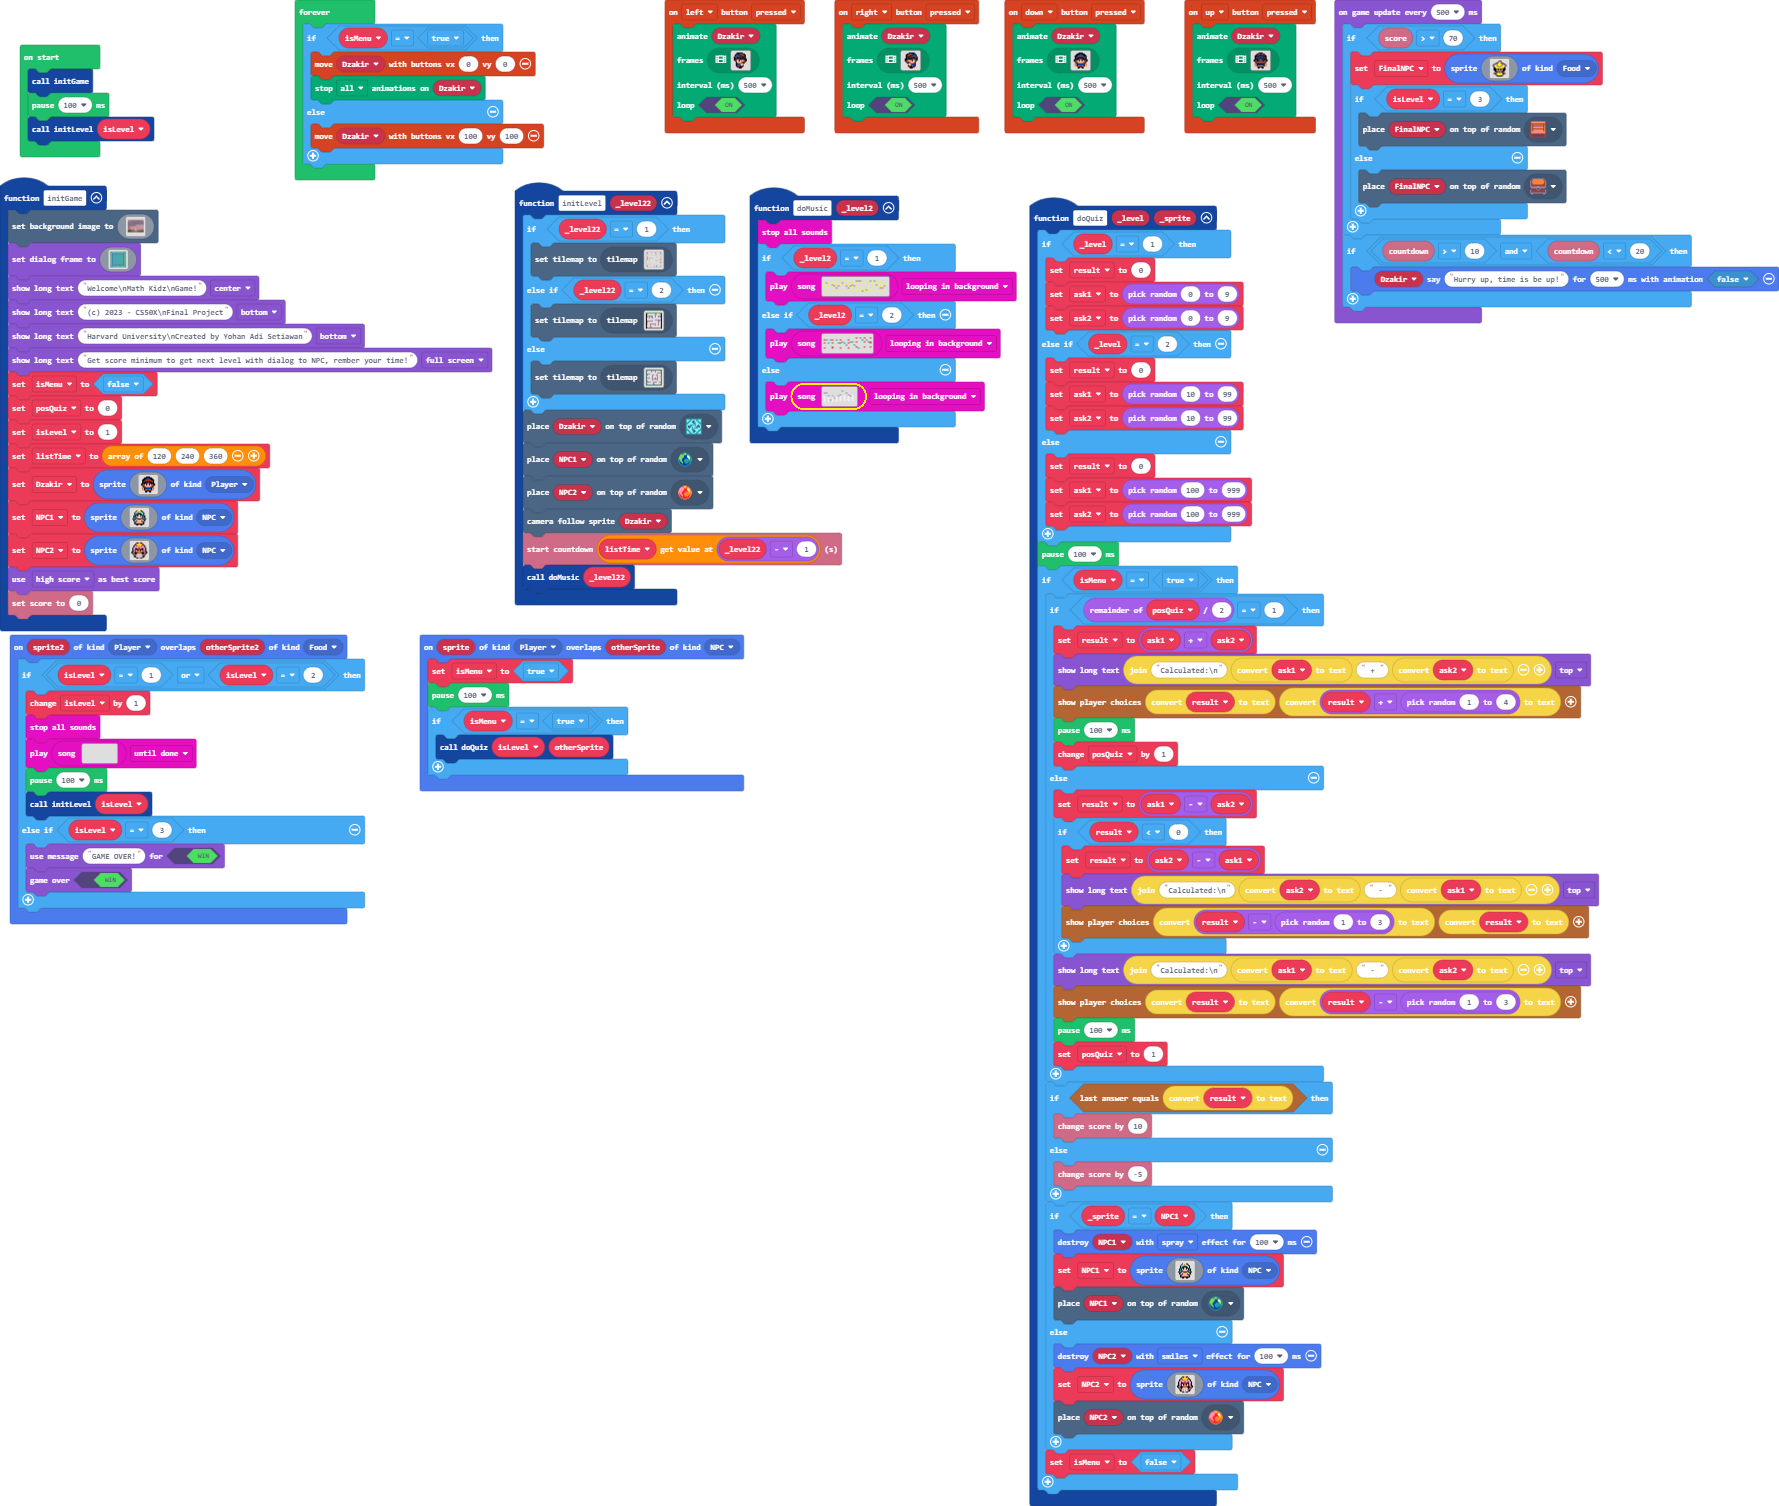
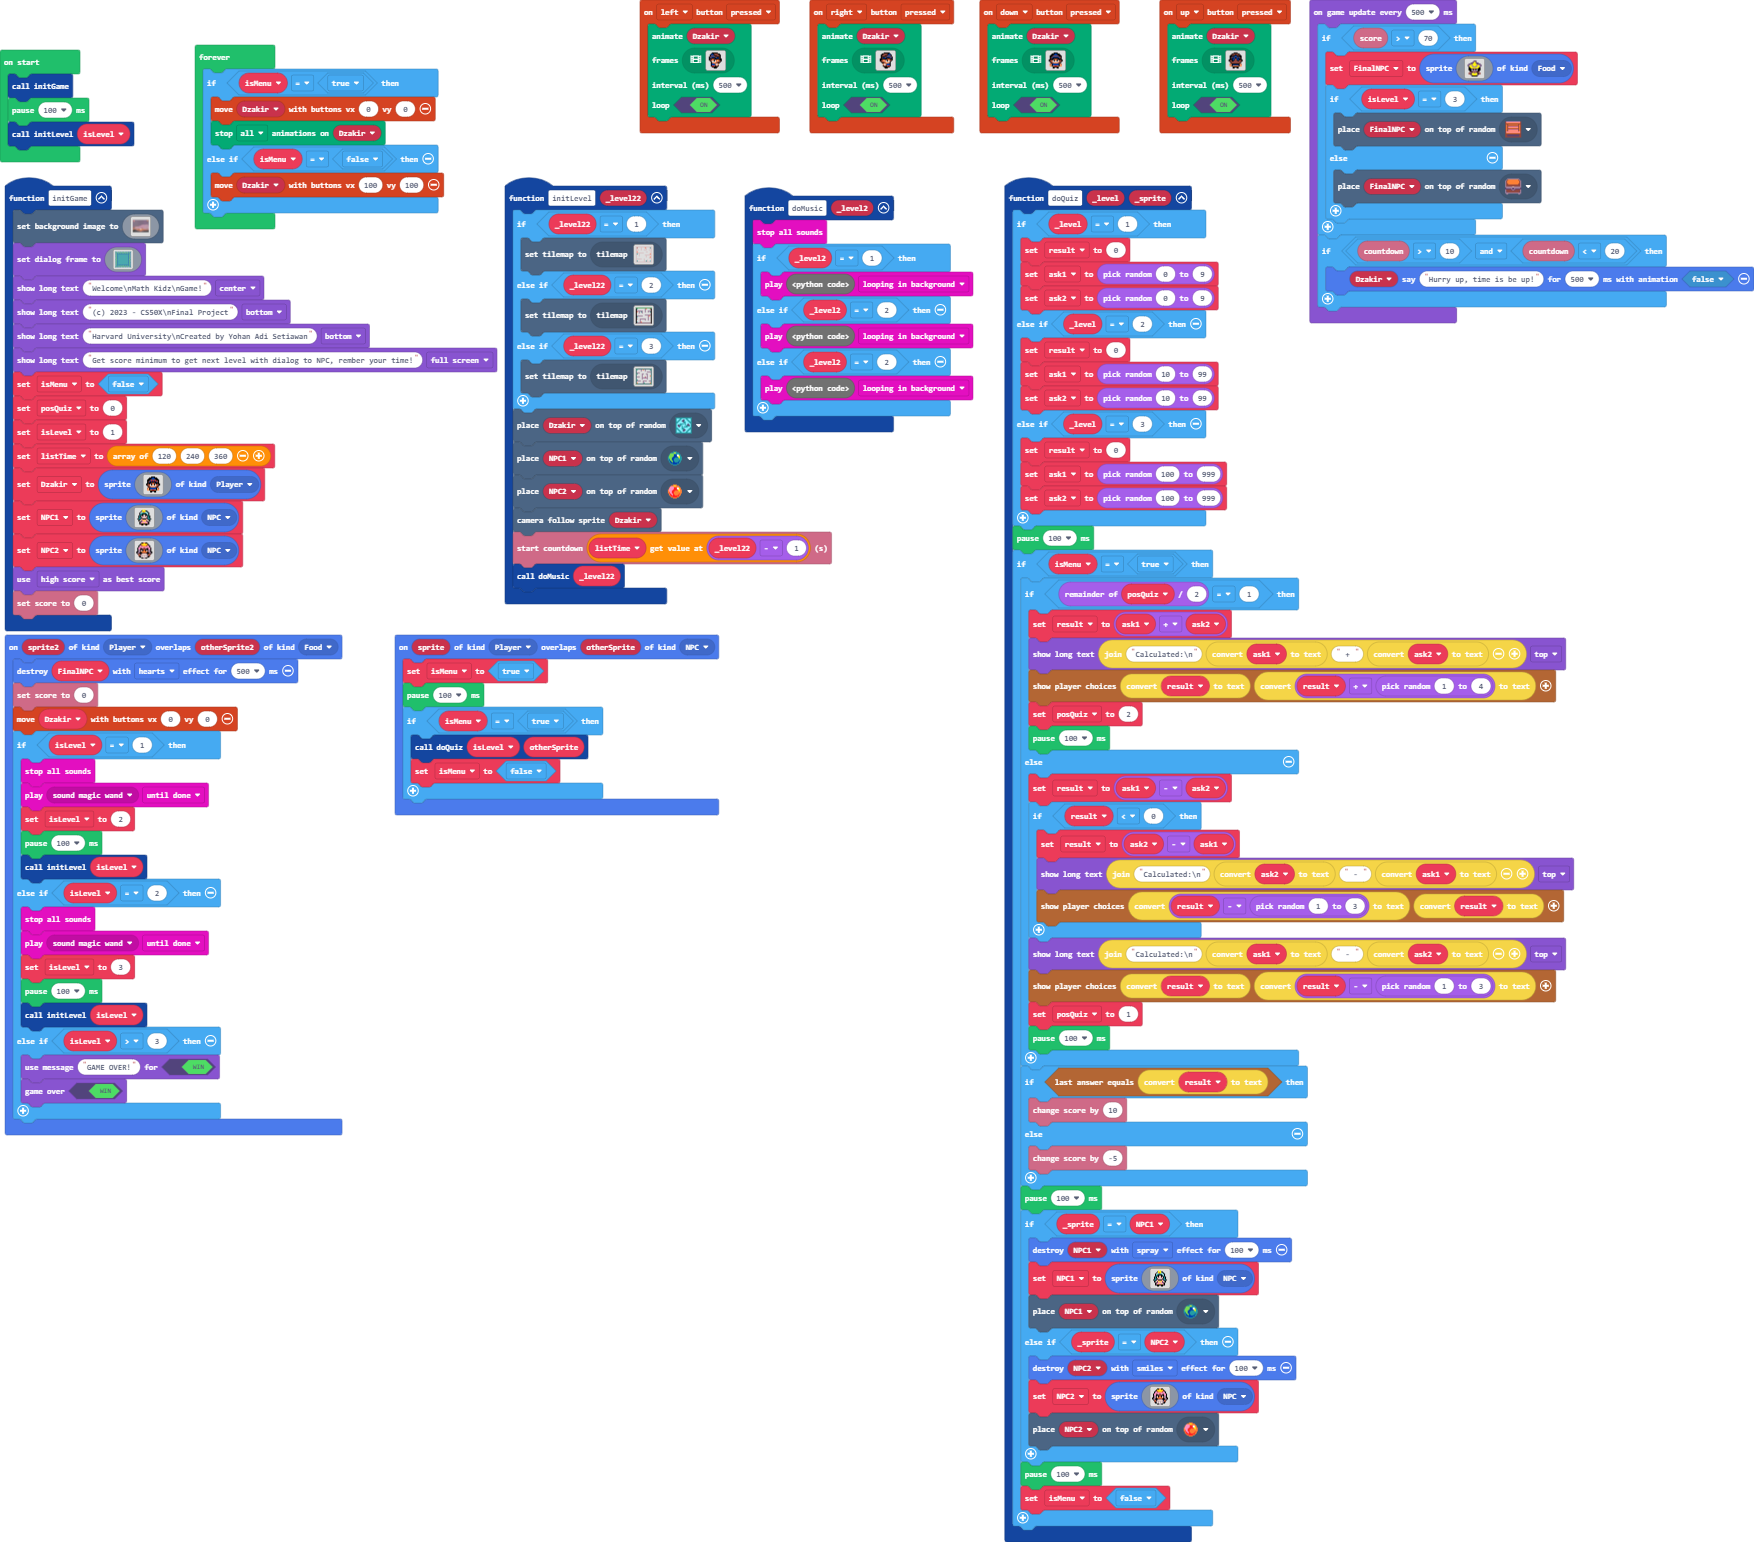
Update main.blocks, main.ts, main.py, images.g.jres, images.g.ts

diff --git a/images.g.ts b/images.g.ts
@@ -353,11 +353,11 @@ f b b f f f e e e e f f f b b f
     helpers._registerFactory("song", function(name: string) {
         switch(helpers.stringTrim(name)) {
             case "song1":
[2 lines of base64/hex data omitted]
             case "song2":
[1 lines of base64/hex data omitted]
             case "song3":
[2 lines of base64/hex data omitted]
         }
         return null;
     })

diff --git a/main.ts b/main.ts
@@ -13,6 +13,7 @@ sprites.onOverlap(SpriteKind.Player, SpriteKind.NPC, function on_on_overlap(spri
     pause(100)
     if (isMenu == true) {
         doQuiz(isLevel, otherSprite)
+        isMenu = false
     }
     
 })
@@ -31,7 +32,7 @@ function doQuiz(_level: number, _sprite: Sprite) {
         result = 0
         ask1 = randint(10, 99)
         ask2 = randint(10, 99)
-    } else {
+    } else if (_level == 3) {
         result = 0
         ask1 = randint(100, 999)
         ask2 = randint(100, 999)
@@ -43,8 +44,8 @@ function doQuiz(_level: number, _sprite: Sprite) {
             result = ask1 + ask2
             game.showLongText("Calculated:\\n" + convertToText(ask1) + " + " + convertToText(ask2), DialogLayout.Top)
             story.showPlayerChoices(convertToText(result), convertToText(result + randint(1, 4)))
+            posQuiz = 2
             pause(100)
-            posQuiz += 1
         } else {
             result = ask1 - ask2
             if (result < 0) {
@@ -55,8 +56,8 @@ function doQuiz(_level: number, _sprite: Sprite) {
             
             game.showLongText("Calculated:\\n" + convertToText(ask1) + " - " + convertToText(ask2), DialogLayout.Top)
             story.showPlayerChoices(convertToText(result), convertToText(result - randint(1, 3)))
-            pause(100)
             posQuiz = 1
+            pause(100)
         }
         
         if (story.checkLastAnswer(convertToText(result))) {
@@ -65,13 +66,14 @@ function doQuiz(_level: number, _sprite: Sprite) {
             info.changeScoreBy(-5)
         }
         
+        pause(100)
         if (_sprite == NPC1) {
             sprites.destroy(NPC1, effects.spray, 100)
             NPC1 = sprites.create(assets.image`
                 NovitaNPC
             `, SpriteKind.NPC)
             tiles.placeOnRandomTile(NPC1, sprites.dungeon.collectibleBlueCrystal)
-        } else {
+        } else if (_sprite == NPC2) {
             sprites.destroy(NPC2, effects.smiles, 100)
             NPC2 = sprites.create(assets.image`
                 EndangNPC
@@ -79,6 +81,7 @@ function doQuiz(_level: number, _sprite: Sprite) {
             tiles.placeOnRandomTile(NPC2, sprites.dungeon.collectibleRedCrystal)
         }
         
+        pause(100)
         isMenu = false
     }
     
@@ -313,7 +316,7 @@ function doMusic(_level2: number) {
         music.play(music.createSong(assets.song`
                 Kebunku
             `), music.PlaybackMode.LoopingInBackground)
-    } else {
+    } else if (_level2 == 2) {
         music.play(music.createSong(assets.song`
                 Kebunku0
             `), music.PlaybackMode.LoopingInBackground)
@@ -328,15 +331,22 @@ controller.down.onEvent(ControllerButtonEvent.Pressed, function on_down_pressed(
 })
 sprites.onOverlap(SpriteKind.Player, SpriteKind.Food, function on_on_overlap2(sprite2: Sprite, otherSprite2: Sprite) {
     
-    if (isLevel == 1 || isLevel == 2) {
-        isLevel += 1
+    sprites.destroy(FinalNPC, effects.hearts, 500)
+    info.setScore(0)
+    controller.moveSprite(Dzakir, 0, 0)
+    if (isLevel == 1) {
         music.stopAllSounds()
-        music.play(music.createSong(hex`
-                00780004080200
-            `), music.PlaybackMode.UntilDone)
+        music.play(music.melodyPlayable(music.magicWand), music.PlaybackMode.UntilDone)
+        isLevel = 2
         pause(100)
         initLevel(isLevel)
-    } else if (isLevel == 3) {
+    } else if (isLevel == 2) {
+        music.stopAllSounds()
+        music.play(music.melodyPlayable(music.magicWand), music.PlaybackMode.UntilDone)
+        isLevel = 3
+        pause(100)
+        initLevel(isLevel)
+    } else if (isLevel > 3) {
         game.setGameOverMessage(true, "GAME OVER!")
         game.gameOver(true)
     }
@@ -351,7 +361,7 @@ function initLevel(_level22: number) {
         tiles.setCurrentTilemap(tilemap`
             level2
         `)
-    } else {
+    } else if (_level22 == 3) {
         tiles.setCurrentTilemap(tilemap`
             level3
         `)
@@ -383,7 +393,7 @@ forever(function on_forever() {
     if (isMenu == true) {
         controller.moveSprite(Dzakir, 0, 0)
         animation.stopAnimation(animation.AnimationTypes.All, Dzakir)
-    } else {
+    } else if (isMenu == false) {
         controller.moveSprite(Dzakir, 100, 100)
     }
     

diff --git a/main.py b/main.py
@@ -14,6 +14,7 @@ def on_on_overlap(sprite, otherSprite):
     pause(100)
     if isMenu == True:
         doQuiz(isLevel, otherSprite)
+        isMenu = False
 sprites.on_overlap(SpriteKind.player, SpriteKind.NPC, on_on_overlap)
 
 def on_left_pressed():
@@ -32,7 +33,7 @@ def doQuiz(_level: number, _sprite: Sprite):
         result = 0
         ask1 = randint(10, 99)
         ask2 = randint(10, 99)
-    else:
+    elif _level == 3:
         result = 0
         ask1 = randint(100, 999)
         ask2 = randint(100, 999)
@@ -44,8 +45,8 @@ def doQuiz(_level: number, _sprite: Sprite):
                 DialogLayout.TOP)
             story.show_player_choices(convert_to_text(result),
                 convert_to_text(result + randint(1, 4)))
+            posQuiz = 2
             pause(100)
-            posQuiz += 1
         else:
             result = ask1 - ask2
             if result < 0:
@@ -58,24 +59,26 @@ def doQuiz(_level: number, _sprite: Sprite):
                 DialogLayout.TOP)
             story.show_player_choices(convert_to_text(result),
                 convert_to_text(result - randint(1, 3)))
-            pause(100)
             posQuiz = 1
+            pause(100)
         if story.check_last_answer(convert_to_text(result)):
             info.change_score_by(10)
         else:
             info.change_score_by(-5)
+        pause(100)
         if _sprite == NPC1:
             sprites.destroy(NPC1, effects.spray, 100)
             NPC1 = sprites.create(assets.image("""
                 NovitaNPC
             """), SpriteKind.NPC)
             tiles.place_on_random_tile(NPC1, sprites.dungeon.collectible_blue_crystal)
-        else:
+        elif _sprite == NPC2:
             sprites.destroy(NPC2, effects.smiles, 100)
             NPC2 = sprites.create(assets.image("""
                 EndangNPC
             """), SpriteKind.NPC)
             tiles.place_on_random_tile(NPC2, sprites.dungeon.collectible_red_crystal)
+        pause(100)
         isMenu = False
 
 def on_right_pressed():
@@ -316,7 +319,7 @@ def doMusic(_level2: number):
                 Kebunku
             """)),
             music.PlaybackMode.LOOPING_IN_BACKGROUND)
-    else:
+    elif _level2 == 2:
         music.play(music.create_song(assets.song("""
                 Kebunku0
             """)),
@@ -330,16 +333,24 @@ controller.down.on_event(ControllerButtonEvent.PRESSED, on_down_pressed)
 
 def on_on_overlap2(sprite2, otherSprite2):
     global isLevel
-    if isLevel == 1 or isLevel == 2:
-        isLevel += 1
+    sprites.destroy(FinalNPC, effects.hearts, 500)
+    info.set_score(0)
+    controller.move_sprite(Dzakir, 0, 0)
+    if isLevel == 1:
         music.stop_all_sounds()
-        music.play(music.create_song(hex("""
-                00780004080200
-            """)),
+        music.play(music.melody_playable(music.magic_wand),
             music.PlaybackMode.UNTIL_DONE)
+        isLevel = 2
         pause(100)
         initLevel(isLevel)
-    elif isLevel == 3:
+    elif isLevel == 2:
+        music.stop_all_sounds()
+        music.play(music.melody_playable(music.magic_wand),
+            music.PlaybackMode.UNTIL_DONE)
+        isLevel = 3
+        pause(100)
+        initLevel(isLevel)
+    elif isLevel > 3:
         game.set_game_over_message(True, "GAME OVER!")
         game.game_over(True)
 sprites.on_overlap(SpriteKind.player, SpriteKind.food, on_on_overlap2)
@@ -353,7 +364,7 @@ def initLevel(_level22: number):
         tiles.set_current_tilemap(tilemap("""
             level2
         """))
-    else:
+    elif _level22 == 3:
         tiles.set_current_tilemap(tilemap("""
             level3
         """))
@@ -382,7 +393,7 @@ def on_forever():
     if isMenu == True:
         controller.move_sprite(Dzakir, 0, 0)
         animation.stop_animation(animation.AnimationTypes.ALL, Dzakir)
-    else:
+    elif isMenu == False:
         controller.move_sprite(Dzakir, 100, 100)
 forever(on_forever)
 
